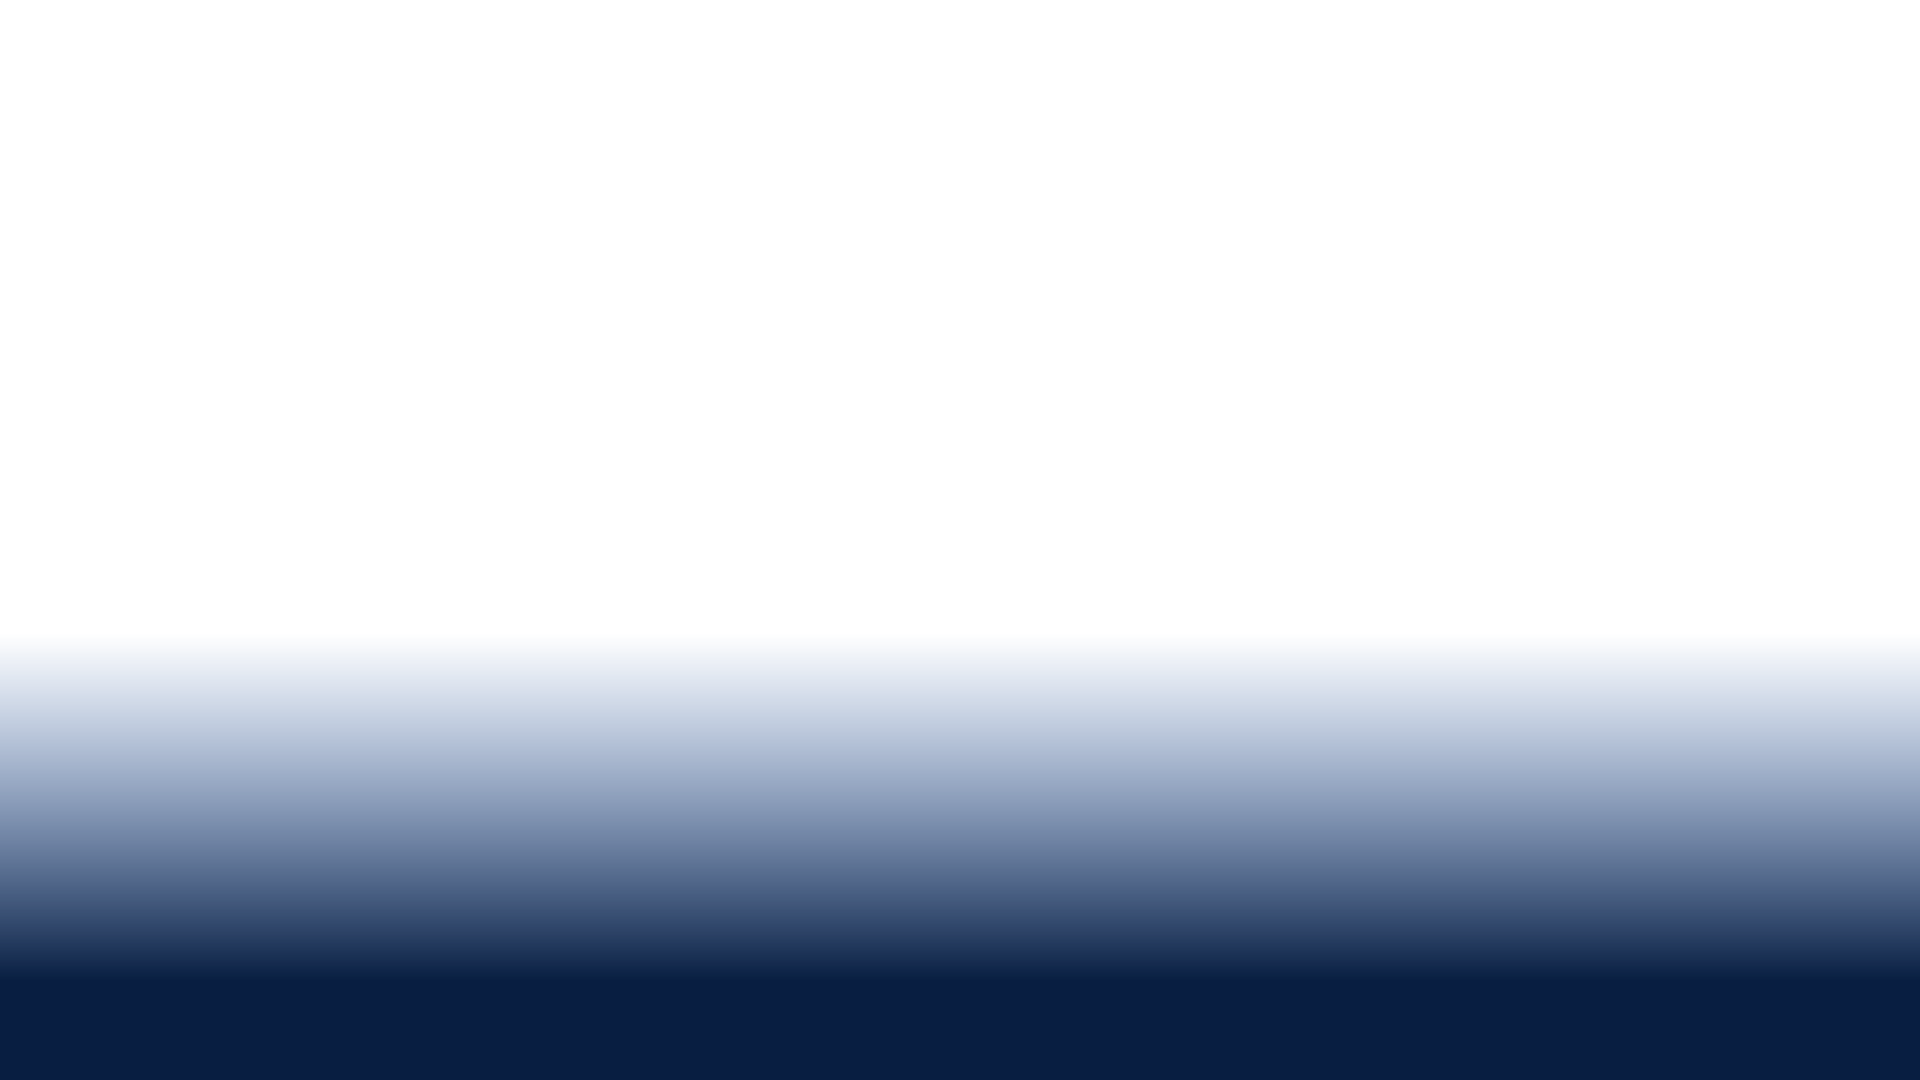
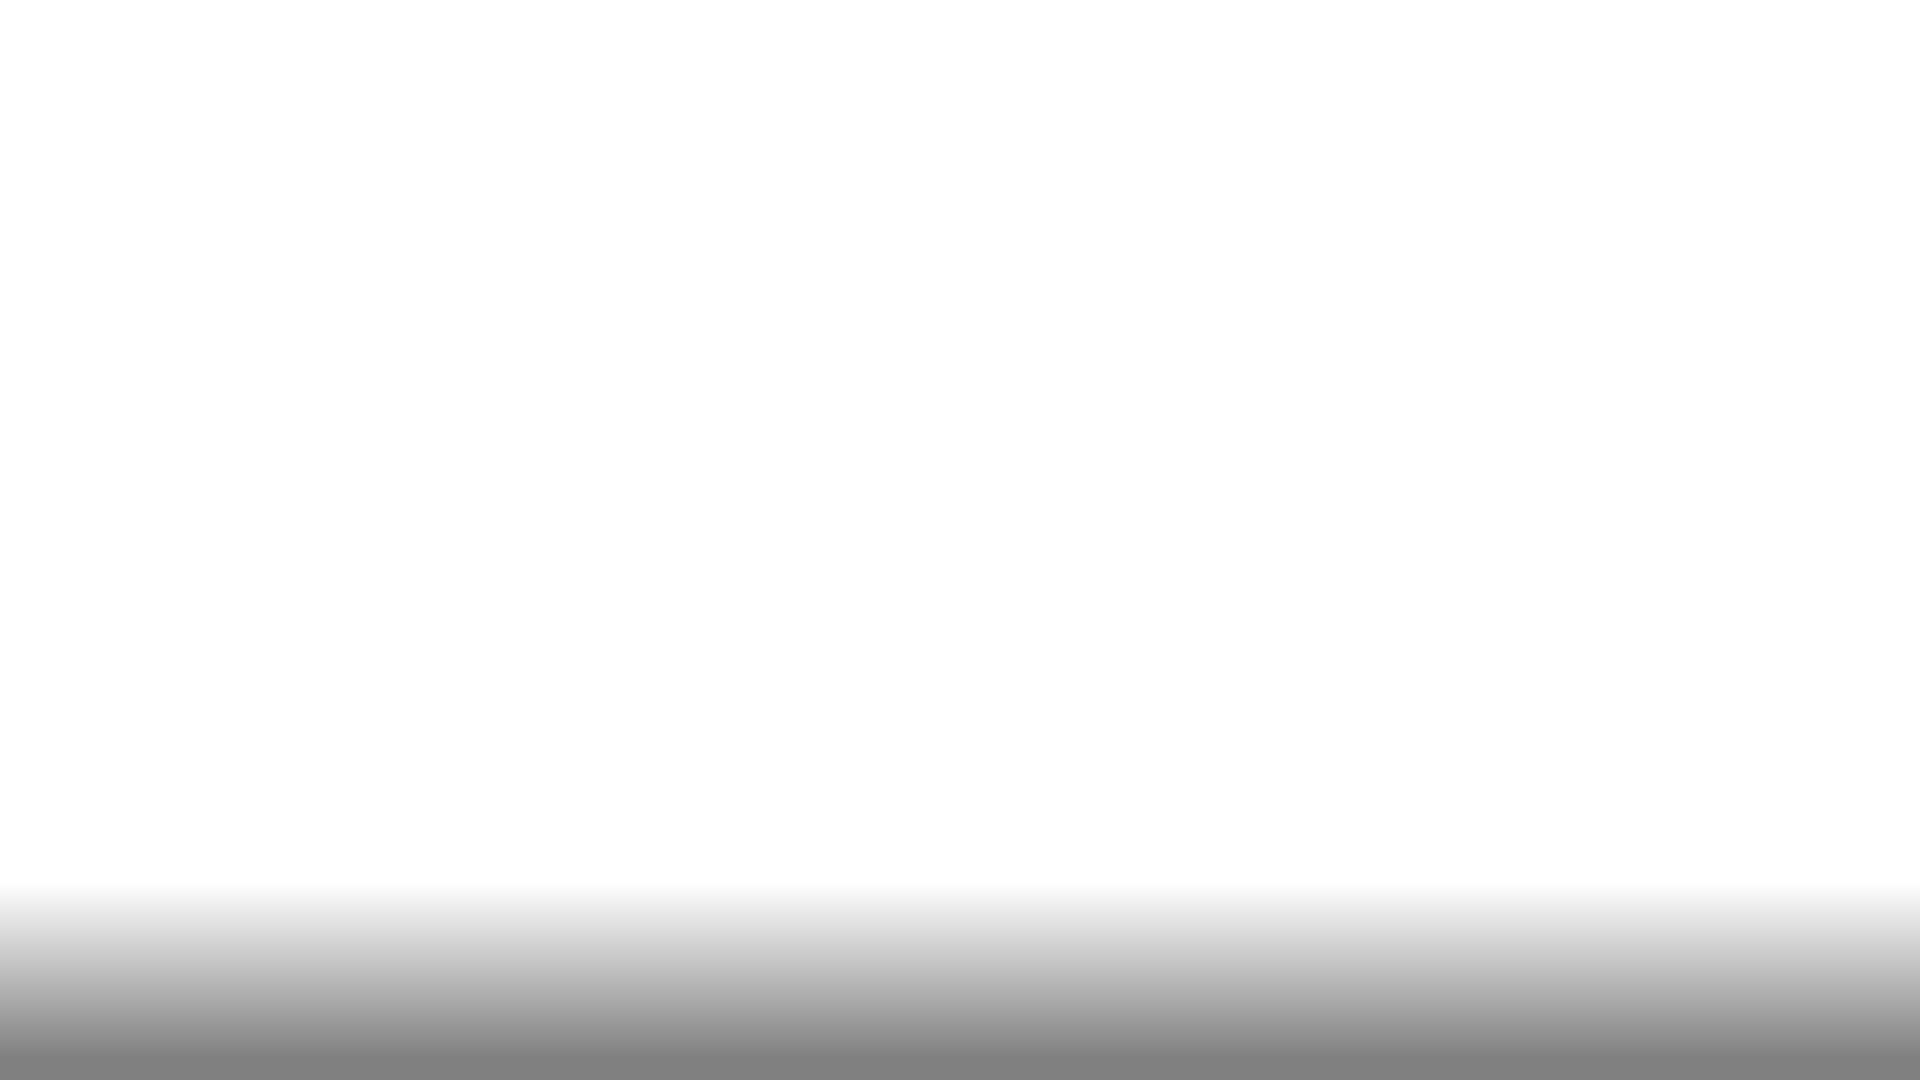
update bg colors

diff --git a/index.html b/index.html
@@ -5,11 +5,10 @@
         <meta charset="utf-8">
         <meta http-equiv="X-UA-Compatible" content="IE=edge">
         <meta name="viewport" content="width=device-width, initial-scale=1">
-        <title>Weird Doctors</title>
+        <title>Weird Doctors - NFT</title>
         <meta name="description" content="An art-focussed NFT-collection on the cardano blockchain.">
-        <meta property="og:image" content="/images/weirddoctors_banner.png">
         <meta property="og:type" content="website">
-        <meta property="og:url" content="">
+        <meta property="og:url" content="https://weirddoctors.com">
         <meta property="og:title" content="Weird Dcotors - NFT">
         <meta property="og:description" content="An art-focussed NFT-collection on the cardano blockchain.">
         <meta name="keywords" content="art, cardano, nft, cryptoart, crypto, ada, cnft, nftcommunity, nft-art, nftart, 3dart, 3dnft, nftcollection, weird, doctors, creative, animation, 3Danimation">
@@ -19,13 +18,23 @@
     </head>
     <body>
         <div id="fadeout"></div>
-        <section id="whitepaper">
-            <img src="images/Whitepaper_WEBSITE_1-0_.png" width="100%">
-            <img src="images/Whitepaper_WEBSITE_1-0_3.png" width="100%">
-            <img src="images/Whitepaper_WEBSITE_1-0_4.png" width="100%">
-            <img src="images/Whitepaper_WEBSITE_1-0_5.png" width="100%">
-            <img src="images/Whitepaper_WEBSITE_1-0_6.png" width="100%">
-            <img src="images/Whitepaper_WEBSITE_1-0_7.png" width="100%">
+        <section id="page1">
+            <img class='whitepaper' src="images/Whitepaper_WEBSITE_1-0_.png" width="100%">
+        </section>
+        <section id="page3">
+            <img class='whitepaper' src="images/Whitepaper_WEBSITE_1-0_3.png" width="100%">
+        </section>
+        <section id="page4">
+            <img class='whitepaper' src="images/Whitepaper_WEBSITE_1-0_4.png" width="100%">
+        </section>
+        <section id="page5">
+            <img class='whitepaper' src="images/Whitepaper_WEBSITE_1-0_5.png" width="100%">
+        </section>
+        <section id="page7">
+            <img class='whitepaper' src="images/Whitepaper_WEBSITE_1-0_6.png" width="100%">
+        </section>
+        <section id="page9">
+            <img class='whitepaper' src="images/Whitepaper_WEBSITE_1-0_7.png" width="100%">
         </section>
         <section id="footer">
             <a class="social" href="https://twitter.com/weirddoctors" target="_blank">twitter</a>

diff --git a/style.css b/style.css
@@ -9,7 +9,7 @@
 }
 
 body {
-    background-color: #14489b;
+    background-color: #454545;
     padding: 0px;
     margin: 0px;
 }
@@ -77,35 +77,50 @@ p {
     margin-bottom: 50px;
 }
 
-#whitepaper{
+.whitepaper{
     width: 33%;
-    margin-left: 33%;
     transition: all 0.2s;
 }
 
 @media (max-width: 2000px){
-    #whitepaper{
+    .whitepaper{
         width: 50%;
-        margin-left: 25%;
         transition: all 0.2s;
     }
 }
 
 @media (max-width: 1100px){
-    #whitepaper{
+    .whitepaper{
         width: 80%;
-        margin-left: 10%;
         transition: all 0.2s;
     }
 }
 
 @media (max-width: 750px){
-    #whitepaper{
+    .whitepaper{
         width: 100%;
-        margin-left: 0%;
         transition: all 0.2s;
     }
 }
 h1 {
     font-family: 'main', sans-serif;
+}
+
+#page1 {
+    background-color: #2087b5
+}
+#page3 {
+    background-color: #62ac3b
+}
+#page4 {
+    background-color: #ab55b2
+}
+#page5 {
+    background-color: #1f9568
+}
+#page7 {
+    background-color: #c67321
+}
+#page9 {
+    background-color: #313131
 }
